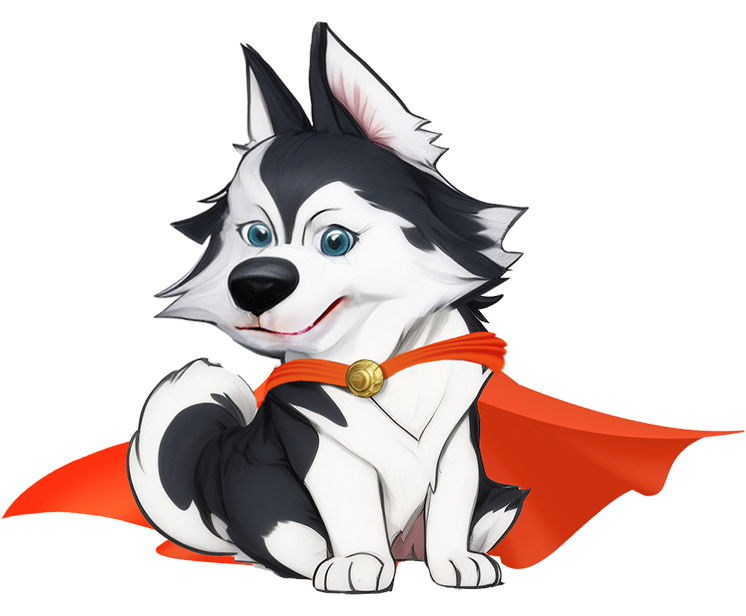
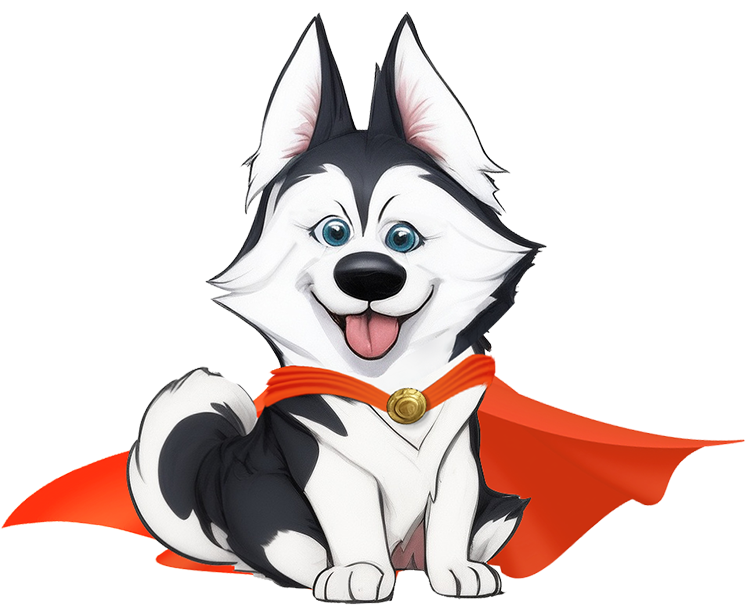
Add files via upload

Changed region(s): [[0.0, 0.0, 1.0, 0.987], [0.6166, 0.1851, 0.6475, 0.2159], [0.5858, 0.1234, 0.6166, 0.1542]]

diff --git a/index.html b/index.html
@@ -443,7 +443,7 @@
               </div>
               <div class="col-lg-7">
                 <div class="hero-img">
-                  <img src="img/Super-Pet-hero.png" class=" w-100 z-3"  alt="person img" />
+                  <img src="img/slider1.png" class=" w-100 z-3"  alt="person img" />
                   <img src="img/hero-2.png" class="img-1" alt="" />
                 </div>
               </div>
@@ -936,7 +936,7 @@
                             <li><i class="fa-solid fa-check"></i>Rabies Control</li>
                             <li><i class="fa-solid fa-check"></i>Reuniting Lost dogs</li>
                         </ul>
-                        <a class="main-btn my-2">Apply Now</a>
+                        <a href="/service.html" class="main-btn my-2">Apply Now</a>
                     </div>
                 </div>
             </div>
@@ -954,7 +954,7 @@
                             <li><i class="fa-solid fa-check"></i>Fast Time</li>
                             <li><i class="fa-solid fa-check"></i>Trust Service</li>
                         </ul>
-                        <a class="main-btn my-2">Apply Now</a>
+                        <a href="/service.html" class="main-btn my-2">Apply Now</a>
                     </div>
                 </div>
             </div>
@@ -972,7 +972,7 @@
                             <li><i class="fa-solid fa-check"></i>Safe Accommodation</li>
                             <li><i class="fa-solid fa-check"></i>Flexible Times</li>
                         </ul>
-                        <a class="main-btn my-2">Apply Now</a>
+                        <a href="/service.html" class="main-btn my-2">Apply Now</a>
                     </div>
                 </div>
             </div>
@@ -990,7 +990,7 @@
                           <li><i class="fa-solid fa-check"></i>High Care Products</li>
                           <li><i class="fa-solid fa-check"></i>Delivery Services</li>
                         </ul>
-                        <a class="main-btn my-2">Apply Now</a>
+                        <a href="/service.html" class="main-btn my-2">Apply Now</a>
                     </div>
                 </div>
             </div>

diff --git a/css/main.css b/css/main.css
@@ -76,10 +76,11 @@ ul {
   background-position: bottom;
   background-image: url(../img/hero.png);
   /* background-color: #fff8e5; */
+  height: calc(100vh - 115px);
 }
 
 .hero-img {
-  padding-top: 80px;
+  /* padding-top: 80px; */
   display: flex;
   justify-content: center;
 }
@@ -93,13 +94,22 @@ ul {
 
   .hero-img img {
     width: 100%;
-    height: 380px;
+    /* height: 380px; */
   }
 
   .hero {
-    height: 823px;
+    height: calc(100vh - 130px);
+  }
+
+  .hero-text h1 {
+    height: 63px;
+  }
+  .hero-text h3 {
+    height: 159px;
   }
 }
+
+
 
 .hero-text {
   z-index: 100;
@@ -212,11 +222,13 @@ h3 {
 }
 
 @media (max-width: 477px) {
-  .hero img {
-    width: 80%;
-  }
+
   img.img-1 {
     display: none;
+  }
+  
+  .carousel-inner {
+    padding-top: 132px;
   }
 }
 
